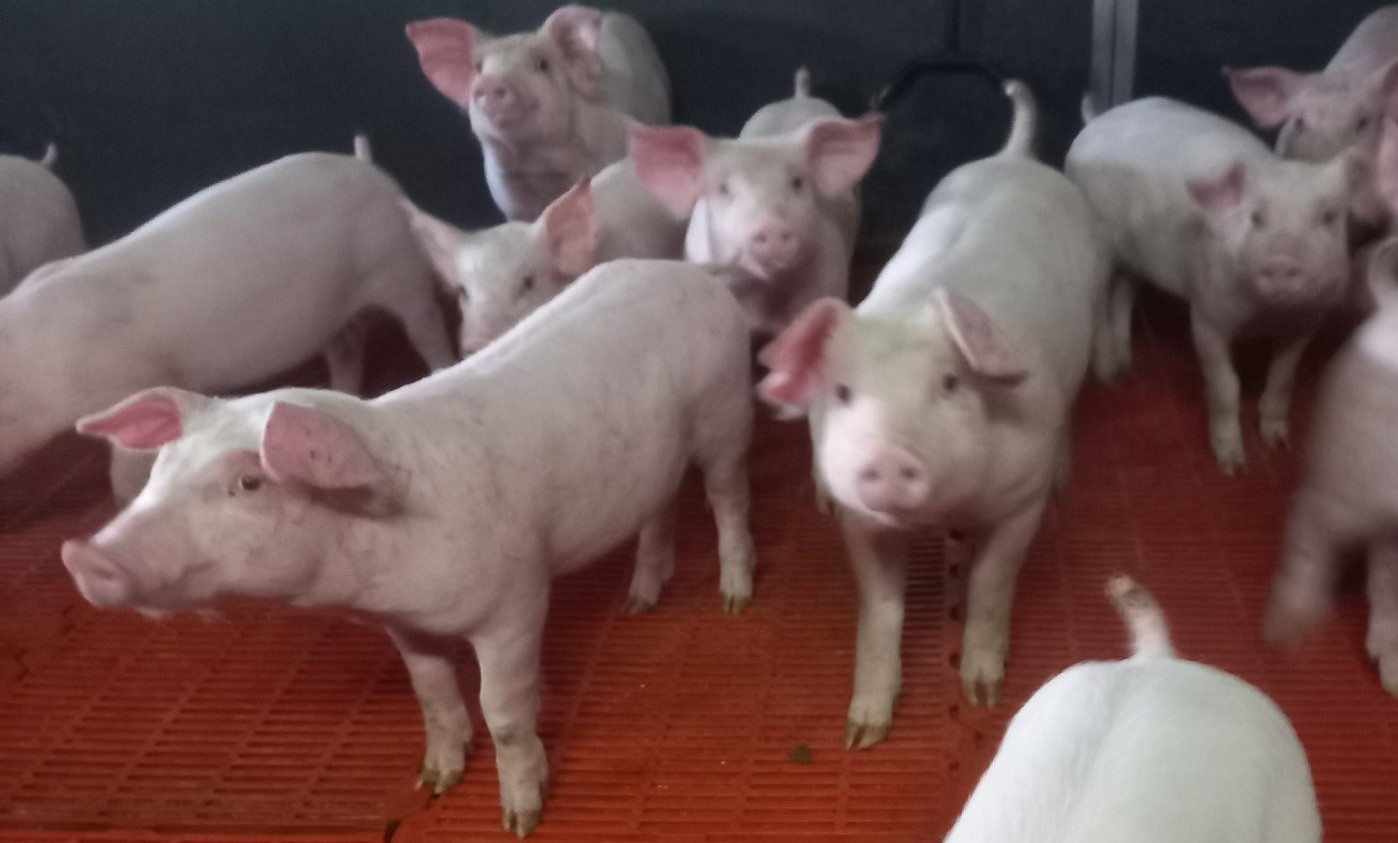
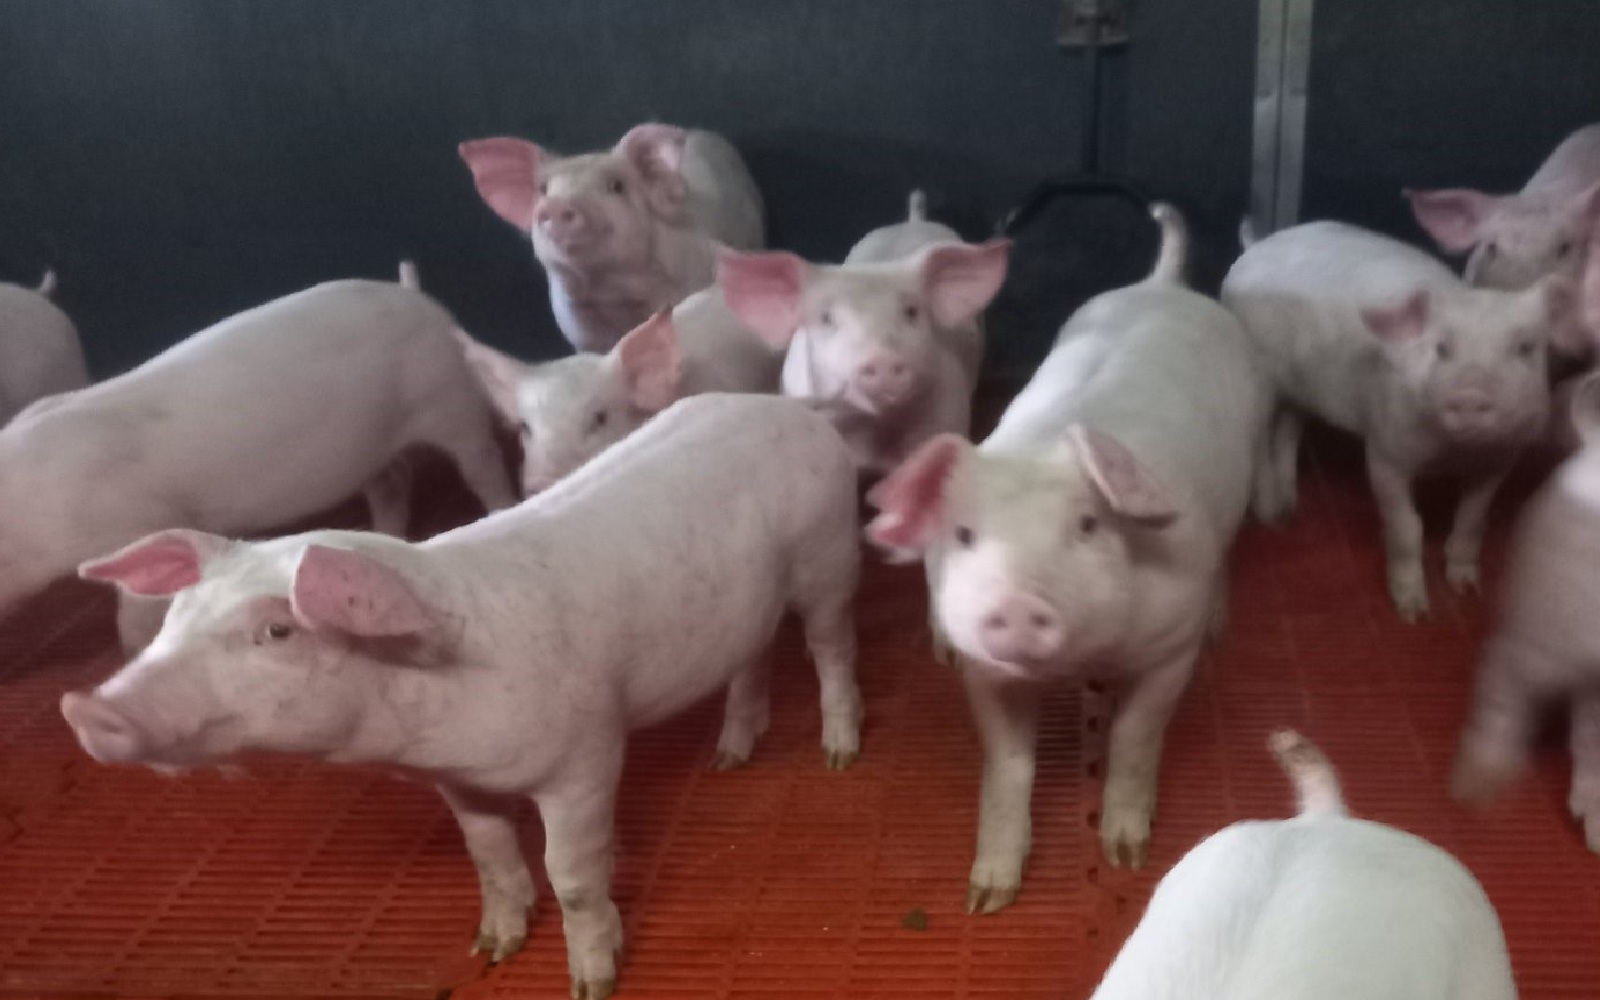
i18bug1 commit

diff --git a/src/pages/home-page/ui/SwiperBlock/index.tsx b/src/pages/home-page/ui/SwiperBlock/index.tsx
@@ -20,7 +20,7 @@ import 'swiper/css/autoplay'
 
 export default function SwiperBlock() {
     return (
-        <div className="border-4 border-orange-500 w-4/5 min-[601px]:w-[500px] md:w-[600px] xl:w-1/2 h-60 min-[601px]:h-52 md:h-3/4 flex mx-auto mt-10 lg:mt-16">
+        <div className="w-3/4 md:w-[550px] xl:w-1/2 h-auto md:h-auto mx-auto mt-10 lg:mt-16">
             <Swiper
                 // install Swiper modules
                 modules={[Navigation, Pagination, Scrollbar, A11y, Autoplay]}
@@ -28,13 +28,14 @@ export default function SwiperBlock() {
                 slidesPerView={1}
                 navigation
                 autoplay={{
-                    delay: 2000, // Задержка в миллисекундах (3 секунды)
+                    delay: 2500, // Задержка в миллисекундах (3 секунды)
                     disableOnInteraction: false, // Не отключать автопрокрутку при взаимодействии с слайдером
                 }}
                 // pagination={{ clickable: true }}
-                scrollbar={{ draggable: true }}
+                scrollbar={{ draggable: true, el: '.custom-scrollbar' }}
                 onSwiper={(swiper) => console.log(swiper)}
                 onSlideChange={() => console.log('slide change')}
+                className="rounded-2xl border-4  border-orange-500 "
             >
                 <SwiperSlide>
                     <Image
@@ -43,7 +44,7 @@ export default function SwiperBlock() {
                         width="0"
                         height="0"
                         sizes="100vw"
-                        className="h-60 lg:h-96 w-full"
+                        className="h-auto w-full"
                     />
                 </SwiperSlide>
                 <SwiperSlide>
@@ -53,7 +54,7 @@ export default function SwiperBlock() {
                         width="0"
                         height="0"
                         sizes="100vw"
-                        className="h-60 lg:h-96 w-full"
+                        className="h-auto w-full"
                     />
                 </SwiperSlide>
                 <SwiperSlide>
@@ -63,7 +64,7 @@ export default function SwiperBlock() {
                         width="0"
                         height="0"
                         sizes="100vw"
-                        className="h-60 lg:h-96 w-full"
+                        className="h-auto w-full"
                     />
                 </SwiperSlide>
                 <SwiperSlide>
@@ -73,10 +74,11 @@ export default function SwiperBlock() {
                         width="0"
                         height="0"
                         sizes="100vw"
-                        className="h-60 lg:h-96 w-full"
+                        className="h-auto w-full"
                     />
                 </SwiperSlide>
             </Swiper>
+            <div className="custom-scrollbar mt-4 mx-auto h-2 bg-gray-300 rounded-lg"></div>
         </div>
     )
 }

diff --git a/src/pages/home-page/ui/OurAdvantages/index.tsx b/src/pages/home-page/ui/OurAdvantages/index.tsx
@@ -8,15 +8,15 @@ export default function OurAdwantages() {
 
     return (
         <section className="lg:mt-16 mt-8 md:px-24 lg:px-0 text-center font-extrabold">
-            <h2 className="w-4/5 mx-auto text-sm md:text-base lg:text-lg text-orange-600 font-extrabold">
+            <h2 className="w-4/5 mx-auto text-xs md:text-sm lg:text-base text-orange-600 font-extrabold">
                 {t('ourAdvantageFirstHeader')}
             </h2>
             <p className="w-4/5 mx-auto mt-2 text-sm md:text-base lg:text-lg font-bold text-black">
                 {t('ourAdvantageSecondHeader')}
             </p>
             {/* ADVANTAGE BLOCKS */}
-            <div className="w-4/5 mx-auto mt-6 grid grid-cols-1 md:grid-cols-3 gap-6 md:w-auto lg:w-4/5 xl:w-2/3">
-                <div className="mx-auto p-6 flex items-center gap-2 md:w-auto lg:w-auto md:p-2 md:flex-col xl:flex-row rounded-lg shadow-3xl bg-white">
+            <div className="w-4/5 md:w-auto lg:w-4/5 2xl:w-2/3 mx-auto mt-6 grid grid-cols-1 md:grid-cols-3 gap-6">
+                <div className="mx-auto p-6 flex items-center gap-2 md:w-auto md:p-2 lg:p-6 md:flex-col xl:flex-row rounded-lg shadow-3xl bg-white">
                     <Image
                         src="/iconPig64.png"
                         alt="Plant logo"
@@ -33,7 +33,7 @@ export default function OurAdwantages() {
                         </p>
                     </div>
                 </div>
-                <div className="mx-auto p-6 flex items-center gap-2 md:w-auto lg:w-auto md:p-2 md:flex-col xl:flex-row rounded-lg shadow-3xl bg-white">
+                <div className="mx-auto p-6 flex items-center gap-2 md:w-auto lg:w-auto md:p-2 lg:p-6 md:flex-col xl:flex-row rounded-lg shadow-3xl bg-white">
                     <Image
                         src="/iconRezept64.png"
                         alt="Plant logo"
@@ -50,7 +50,7 @@ export default function OurAdwantages() {
                         </p>
                     </div>
                 </div>
-                <div className="mx-auto p-6 flex items-center gap-2 md:w-auto lg:w-auto md:p-2 md:flex-col xl:flex-row rounded-lg shadow-3xl bg-white">
+                <div className="mx-auto p-6 flex items-center gap-2 md:w-auto lg:w-auto md:p-2 lg:p-6 md:flex-col xl:flex-row rounded-lg shadow-3xl bg-white">
                     <Image
                         src="/iconISO64.png"
                         alt="Plant logo"

diff --git a/src/features/MapBlock/ui/index.tsx b/src/features/MapBlock/ui/index.tsx
@@ -12,7 +12,7 @@ export function MapBlock() {
         )
     }
     return (
-        <div className="w-3/4 lg:w-3/5 mx-auto flex flex-col md:flex-row gap-4 items-center justify-center my-10 lg:my-16 font-extrabold">
+        <div className="w-3/4 lg:w-3/5 mx-auto flex flex-col md:flex-row items-center justify-center my-10 lg:my-16 font-extrabold">
             <div className="md:w-1/3 flex flex-col h-32 min-[600px]:h-24 md:h-60">
                 <span className="mb-auto text-sm lg:text-base">
                     {t('mapText')}
@@ -20,13 +20,13 @@ export function MapBlock() {
                 <Button
                     variant="default"
                     size="sm"
-                    className="border-0 bg-orange-600 font-sans font-bold mt-1"
+                    className="border-0 bg-orange-600 font-sans font-bold mt-1 text-sm"
                     onClick={handleDirectionsClick}
                 >
                     {t('mapButton')}
                 </Button>
             </div>
-            <div className="max-[767px]:mt-3 md:ml-12 w-full md:w-96 lg:w-1/2 flex items-center justify-center">
+            <div className="max-[767px]:mt-6 md:ml-12 w-full md:w-96 lg:w-1/2 flex items-center justify-center">
                 <iframe
                     src="https://www.google.com/maps/embed?pb=!1m18!1m12!1m3!1d13376.617626814921!2d44.43961131019164!3d41.463423518722664!2m3!1f0!2f0!3f0!3m2!1i1024!2i768!4f13.1!3m3!1m2!1s0x4043eb7a014c0f17%3A0x71c96f892c224569!2sAkaurta%20pig%20farm!5e1!3m2!1sru!2sua!4v1733056020151!5m2!1sru!2sua"
                     width="0"

diff --git a/src/features/LanguageSelector/ui/index.tsx b/src/features/LanguageSelector/ui/index.tsx
@@ -24,17 +24,16 @@ export function LanguageSelector({ className }: LanguageSelectorProps) {
         event: React.ChangeEvent<HTMLSelectElement>
     ) => {
         const newLocale = event.target.value
-        const days = 30
-        const date = new Date()
-        date.setTime(date.getTime() + days * 24 * 60 * 60 * 1000)
-        const expires = date.toUTCString()
-        document.cookie = `NEXT_LOCALE=${newLocale};expires=${expires};path=/;SameSite=Lax`
+        // const days = 30
+        // const date = new Date()
+        // date.setTime(date.getTime() + days * 24 * 60 * 60 * 1000)
+        // const expires = date.toUTCString()
+        // document.cookie = `NEXT_LOCALE=${newLocale};expires=${expires};path=/;SameSite=Lax`
 
         if (isBurgerOpen) {
             closeBurger()
         }
 
-        // Меняем URL в зависимости от текущей локали
         if (currentLocale === i18nConfig.defaultLocale) {
             router.push('/' + newLocale + pathname)
         } else {

diff --git a/src/pages/home-page/ui/Greetings/index.tsx b/src/pages/home-page/ui/Greetings/index.tsx
@@ -34,7 +34,7 @@ export default function Greetings() {
                     className="w-auto"
                 />
             </div>
-            <article className="w-4/5 md:w-2/5 lg:w-80 flex flex-center items-center flex-col max-[767px]:mt-4 md:ml-4 md:mr-auto md:px-0 max-[767px]:mx-auto">
+            <article className="w-4/5 md:w-2/5 lg:w-96 flex flex-center items-center flex-col max-[767px]:mt-4 md:ml-4 md:mr-auto md:px-0 max-[767px]:mx-auto">
                 <h1 className="self-start md:mb-4 text-base font-bold lg:text-xl">
                     {t('common:georgianHouse')}
                 </h1>

diff --git a/tailwind.config.ts b/tailwind.config.ts
@@ -80,7 +80,7 @@ export default {
                     'inset 0 0 10px 5px rgba(180, 180, 180, 0.6)',
                 'outer-orange': '0 0 15px rgba(255, 165, 0, 0.4)',
                 'outer-brown': '0 0 15px rgba(66, 32, 6)',
-                'outer-greetings': '0 0 15px rgba(255, 65, 0, 0.4)',
+                'outer-greetings': '0 0 6px rgba(255, 65, 0, 0.6)',
                 '3xl': '0 0px 15px 0px rgba(0, 0, 0, 0.4)',
             },
             width: {

diff --git a/src/features/ContactForm/ui/index.tsx b/src/features/ContactForm/ui/index.tsx
@@ -32,7 +32,7 @@ export function ContactForm({ ModalSlot }: ModalSlot) {
 
     return (
         <AppForm
-            className="p-4 w-4/5 lg:w-1/2 h-96 flex flex-col mx-auto my-auto"
+            className="p-4 w-3/4 md:w-2/3 lg:w-3/5 xl:w-1/2 h-96 flex flex-col mx-auto my-auto"
             onSubmit={onSubmit}
             {...formProps}
         >
